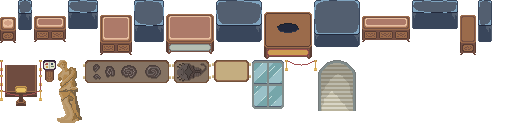
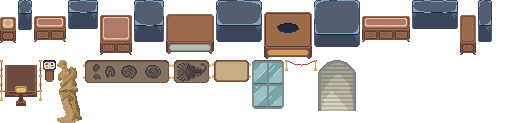
Museum: glass over the cases switched off for now (MUSEUM_GLASS flag), no pillow under the 3x2 permanent exhibit cases
Claude-Session: https://claude.ai/code/session_01Xiux81LEqjvUithNNjQsjc

Changed region(s): [[0.3125, 0.122, 0.4375, 0.3415]]

diff --git a/js/game.js b/js/game.js
@@ -278,7 +278,7 @@ function drawEnt(o, cx, cy, now) {
       const zo = o.pz > 0.02 ? Math.round(o.pz * PIT_U) : 0; if (zo) { g.save(); const ry = rimY(o.x, o.y); if (ry != null) { g.beginPath(); g.rect(o.x - cx - 40, -1000, 80, ry - cy + 1000); g.clip(); } g.translate(0, zo); }   // a stone that has dropped into a pit is drawn lower, and the higher ground in front hides its bottom
       if (o.ang) { const q = Math.round(o.ang / 1.5708) & 3, w = spr.width, h = spr.height; g.save(); g.translate(Math.round(o.x - cx), Math.round(o.y - cy) - h / 2); g.rotate(q * Math.PI / 2); g.drawImage(spr, -w / 2, -h / 2); g.restore(); } else if (Math.abs(o.lean) > 0.04) { const px = Math.round(o.x - spr.ax - cx), py = Math.round(o.y - spr.ay - cy), H = spr.height; for (let r = 0; r < H; r += 2) g.drawImage(spr, 0, r, spr.width, Math.min(2, H - r), px + Math.round(o.lean * Math.pow(1 - (r + 1) / H, 1.5) * 3), py + r, spr.width, Math.min(2, H - r)); } else if (o.sq > 0.02) { const sw = Math.round(spr.width * (1 + 0.14 * o.sq)), sh = Math.round(spr.height * (1 - 0.32 * o.sq)); g.drawImage(spr, Math.round(o.x - cx - spr.ax * sw / spr.width), Math.round(o.y - cy - spr.ay * sh / spr.height), sw, sh); } else g.drawImage(spr, Math.round(o.x - spr.ax - cx), Math.round(o.y - spr.ay - cy)); g.globalAlpha = 1;
       if (o.k === 'mprop' && o.item && SPR.mitem && SPR.mitem[o.item]) { const it = SPR.mitem[o.item], pic = o.st > 0 && it.stages ? it.stages[Math.min(o.st, it.stages.length) - 1] : it; g.drawImage(pic, Math.round(o.x - spr.ax - cx) + it.ix, Math.round(o.y - spr.ay - cy) + it.iy); }   // the item on display (o.st: a permanent exhibit's build stage, 0 = finished)
-      if (o.k === 'mprop' && spr.over) {
+      if (o.k === 'mprop' && spr.over && MUSEUM_GLASS) {
         const qx = Math.round(o.x - spr.ax - cx), qy = Math.round(o.y - spr.ay - cy); g.globalAlpha = spr.overA;
         if (spr.overB) { g.drawImage(spr.overG, qx, qy); g.globalCompositeOperation = 'multiply'; g.drawImage(spr.overB, qx, qy); g.globalCompositeOperation = 'source-over'; } else g.drawImage(spr.over, qx, qy);
         g.globalAlpha = 1;
@@ -288,6 +288,7 @@ function drawEnt(o, cx, cy, now) {
     }
   }
 }
+const MUSEUM_GLASS = false;   // the glass over the display cases is switched off for now (set to true to bring it back)
 let SUN = 1;   // how strong cast shadows and sun shading are: 1 = full daylight, 0 = none (night). Follows the clock when FEATURES.light is on
 const shadowStrength = () => FEATURES.shadows === false ? 0 : SUN;
 function drawFurnace(o, cx, cy, now) {   // the furnace and its belt are still; the coals, flames, smoke and bar are drawn over them as the job goes

diff --git a/js/editor.js b/js/editor.js
@@ -31,7 +31,7 @@ function mpropPic(pn, item, st) {   // a museum prop as one picture (case + what
   const s = SPR.mprop && SPR.mprop[pn]; if (!s) return null; const it = item && SPR.mitem && SPR.mitem[item], pic = it ? (st > 0 && it.stages ? it.stages[Math.min(st, it.stages.length) - 1] : it) : null;
   const top = it ? Math.min(0, it.iy) : 0, h = Math.max(s.height, it ? it.iy + it.height : 0) - top, c = mk(s.width, h); c.g.drawImage(s, 0, -top);
   if (pic) c.g.drawImage(pic, it.ix, it.iy - top);
-  if (s.over) { c.g.globalAlpha = s.overA; if (s.overB) { c.g.drawImage(s.overG, 0, -top); c.g.globalCompositeOperation = 'multiply'; c.g.drawImage(s.overB, 0, -top); c.g.globalCompositeOperation = 'source-over'; } else c.g.drawImage(s.over, 0, -top); c.g.globalAlpha = 1; }
+  if (s.over && MUSEUM_GLASS) { c.g.globalAlpha = s.overA; if (s.overB) { c.g.drawImage(s.overG, 0, -top); c.g.globalCompositeOperation = 'multiply'; c.g.drawImage(s.overB, 0, -top); c.g.globalCompositeOperation = 'source-over'; } else c.g.drawImage(s.over, 0, -top); c.g.globalAlpha = 1; }
   c.ax = s.ax; c.ay = s.ay - top; return mpCache[key] = c;
 }
 const LABELS = { mprop: 'Museum', camp: 'Camp', shop: 'Stall', bench: 'Workbench', campfire: 'Campfire', anvil: 'Anvil', hammer: 'Hammer', furnace: 'Furnace', tree: 'Tree', decor: 'Scenery' };

diff --git a/tools/museum_interior_export.py b/tools/museum_interior_export.py
@@ -125,14 +125,14 @@ for cn, fn in CASES.items():
     w, h, AL, AI = read(SRC + fn + '.aseprite')
     grp = next(i for i, l in enumerate(AL) if l['type'] == 1 and l['parent'] is None and re.match(r'\d', l['name']))   # the case group (1*1, 2x1, 2x2, 3x2)
     nm = lambda i: AL[i]['name'].lower()
-    base = [i for i in kids(AL, grp) if AL[i]['type'] == 0 and (nm(i) == 'base' or 'pillow' in nm(i) or 'pill ow' in nm(i))]
+    base = [i for i in kids(AL, grp) if AL[i]['type'] == 0 and (nm(i) == 'base' or (cn != 'case_3x2' and ('pillow' in nm(i) or 'pill ow' in nm(i))))]   # the permanent exhibits (3x2) have no pillow under them for now
     glass = next(i for i in kids(AL, grp) if 'glass' in nm(i))
     bimg = stack(AI, base, w, h); gimg = stack(AI, [glass], w, h); bb = AI[base[0]].getbbox(); gb = gimg.getbbox(); ub = bimg.getbbox()
     x0, y0, x1, y1 = min(ub[0], gb[0]), min(ub[1], gb[1]), max(ub[2], gb[2]), max(ub[3], gb[3])
     props[cn] = {'img': bimg.crop((x0, y0, x1, y1)), 'over': gimg.crop((x0, y0, x1, y1)), 'blend': AL[glass]['blend'], 'op': AL[glass]['op']}
     bx0, btop, bw = bb[0] - x0, bb[1] - y0, bb[2] - bb[0]
     # the items: every other child of the case group (and, for 3x2, the ceremonial vases group next to it)
-    src = [i for i in kids(AL, grp) if i not in base and i != glass] + [i for i, l in enumerate(AL) if l['parent'] is None and l['type'] == 1 and i != grp and leaves(AL, i)]
+    src = [i for i in kids(AL, grp) if i not in base and i != glass and 'pill' not in nm(i)] + [i for i, l in enumerate(AL) if l['parent'] is None and l['type'] == 1 and i != grp and leaves(AL, i)]
     entries = []
     for i in src:
         n = AL[i]['name']
@@ -204,6 +204,8 @@ for sid, it in items.items():
 sheet.save('assets/museum/items.png'); json.dump(out, open('assets/museum/items.json', 'w'), indent=0)
 for c in CASES: print(c, [s for s, o in out.items() if o['case'] == c])
 
+import sys
+if '--map' not in sys.argv: print('(maps/museum.json left alone; run with --map to rebuild the sample room)'); sys.exit()
 # ------------------------------------------------------------------------------------------------ the map: a room with every item on display
 def build(fw, fh):
     cols, rows = 2 * fw + 8, 2 * fh + 8; ml, mt = 2 * (fw - 4), 2 * (fh - 5); g = []
